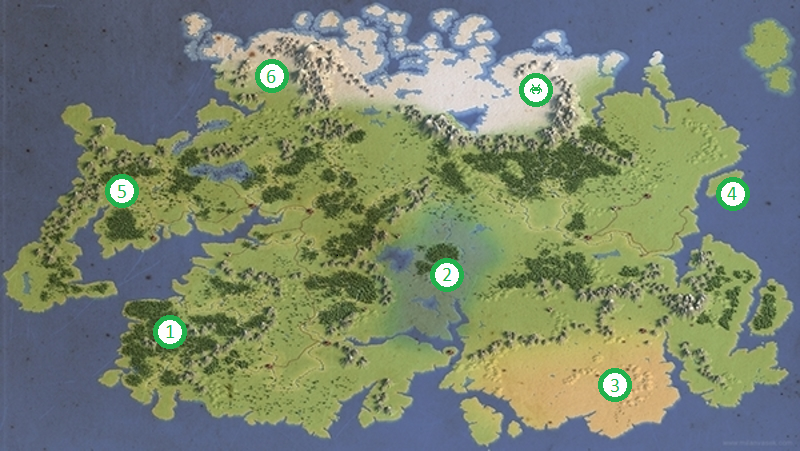
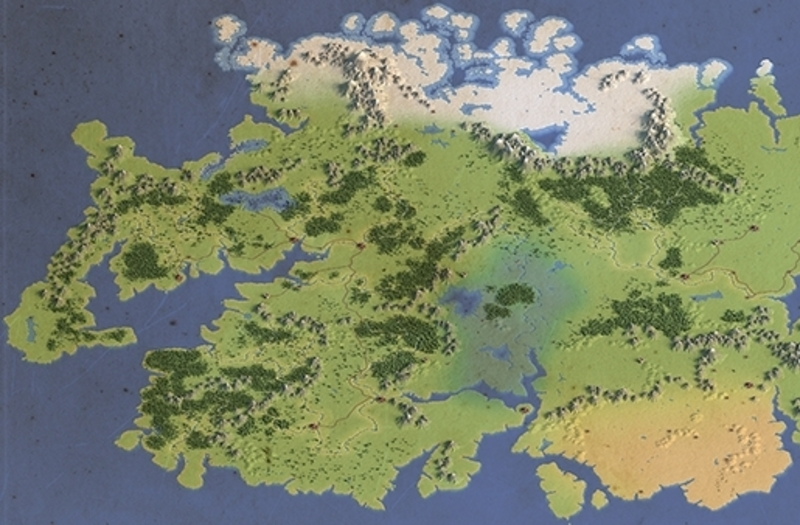
Gave a very pretty map interface to the Level Selection screen

diff --git a/src/player_view_level_select.cpp b/src/player_view_level_select.cpp
@@ -4,9 +4,17 @@
 
 LevelSelectView::LevelSelectView(GameLogic *state, sf::RenderWindow *App) : PlayerView(state, App)
 {
-  selectionIndex = 0;
+  selected_level = 0;
   graphics = std::make_shared<LevelSelectGraphics>(this);
   App->setView(App->getDefaultView());
+
+	nodes[0] = {298, 403, 1, 10};
+	nodes[1] = {47, 321, 2, 10};
+	nodes[2] = {718, 442, 3, 10};
+	nodes[3] = {526, 320, 4, 10};
+	nodes[4] = {358, 223, 5, 10};
+	nodes[5] = {317, 84, 6, 10};
+	nodes[6] = {622, 103, 7, 10};
 }
 
 void LevelSelectView::process_input(float delta)
@@ -16,33 +24,18 @@ void LevelSelectView::process_input(float delta)
 
 void LevelSelectView::handle_event(sf::Event event)
 {
-	if (event.type == sf::Event::EventType::MouseButtonPressed) {
-		int x = event.mouseButton.x;
-		int y = event.mouseButton.y;
-		printf("Click Event Processed\n");
-		if (x >= 10 && x <= 275 && y >= 10 && y <= 275) {
-			if (x >= 10 && x <= 50 && y >= 10 && y <= 50) {
-				printf("Level One Selected\n");
-				Engine::getInstance().set_mode(MODE_PLAY);
-			}
-			if (x >= 55 && x <= 95 && y >= 55 && y <= 95) {
-				printf("Level Two Selected\n");
-			}
-			if (x >= 100 && x <= 140 && y >= 100 && y <= 140) {
-				printf("Level Three Selected\n");
-			}
-			if (x >= 145 && x <= 185 && y >= 145 && y <=185) {
-				printf("Level Four Selected\n");
-			}
-			if (x >= 190 && x <= 230 && y >= 190 && y <= 230) {
-				printf("Level Five Selected\n");
-			}
-			if (x >= 235 && x <=275 && y >= 235 && y <= 275) {
-				printf("Level Six Selected\n");
-			}
-	   }
-	 fflush(stdout);
+	if (event.type == sf::Event::EventType::MouseButtonPressed)
+  {
+		selected_level = clicked_node(event.mouseButton.x, event.mouseButton.y);
 	}
+  else if (event.type == sf::Event::EventType::MouseButtonReleased)
+  {
+    if (selected_level == clicked_node(event.mouseButton.x, event.mouseButton.y))
+    {
+      printf("Level %d selected\n", selected_level);
+      Engine::getInstance().set_mode(MODE_PLAY);
+    }
+  }
 }
 
 void LevelSelectView::update(float delta)
@@ -61,4 +54,21 @@ void LevelSelectView::draw()
   app->clear(sf::Color::Black);
   app->draw(*graphics);
   app->display();
+}
+
+int LevelSelectView::clicked_node(int mouseX, int mouseY)
+{
+	int i;
+	int dx;
+	int dy;
+	int hypo;
+	for (i = 0; i < NUMBER_OF_LEVELS; ++i)
+	{
+		Node node = get_node(i);
+		hypo = node.size;
+		dx = mouseX - node.x;
+		dy = mouseY - node.y;
+		if (hypo * hypo > dx * dx + dy * dy) return i + 1;
+	}
+	return 0;
 }

diff --git a/include/player_view_level_select.h b/include/player_view_level_select.h
@@ -2,20 +2,29 @@
 #define CSCI437_VIEW_LEVELSELECT_H
 
 #include "view.h"
+#include "macros.h"
 
 class LevelSelectView : public PlayerView
 {
+
+private:
+    void process_input(float delta) override;
+    void handle_event(sf::Event event) override;
+    struct Node {
+        int x;
+        int y;
+        int level;
+        int size;
+    };
+    Node nodes[NUMBER_OF_LEVELS];
+    int clicked_node(int mouseX, int mouseY);
+    int selected_level;
 
 public:
     LevelSelectView(GameLogic *state, sf::RenderWindow *App);
     void update(float delta) override;
     void draw() override;
-
-private:
-    void process_input(float delta) override;
-    void handle_event(sf::Event event) override;
-    int getSelectedLevel();
-    int selectionIndex;
+    Node get_node(int node) {return nodes[node];}
 
 };
 

diff --git a/src/graphics_level_select.cpp b/src/graphics_level_select.cpp
@@ -12,14 +12,18 @@ void LevelSelectGraphics::draw(sf::RenderTarget &target, sf::RenderStates states
 	// This must always be the first line of every draw method
 	states.transform *= getTransform();
 
-	for (int i=0;i<6;i++) {
-		sf::RectangleShape shape;
+  sf::Sprite sprite;
+  sprite.setTexture(resources.GetTexture("map"));
+  target.draw(sprite, states);
+
+	for (int i = 0; i < NUMBER_OF_LEVELS; ++i) {
+		sf::CircleShape shape;
     shape.setFillColor(sf::Color::Red);
-    shape.setSize(sf::Vector2f(40,40));
-    shape.setPosition(sf::Vector2f((5*(i+2))+(40*i),(5*(i+2))+(40*i)));
+    shape.setRadius(view->get_node(i).size);
+    shape.setOrigin(view->get_node(i).size, view->get_node(i).size);
+    shape.setPosition(view->get_node(i).x, view->get_node(i).y);
 		target.draw(shape, states);
 	}
-
 }
 
 

diff --git a/src/engine.cpp b/src/engine.cpp
@@ -19,6 +19,7 @@ void Engine::init(sf::RenderWindow *app)
   //loads necessary resources to the resource manager
   resources.LoadFont("old_school", "../data/Old-School-Adventures.ttf");
   resources.LoadXML("text", "../data/game-text.xml");
+  resources.LoadTexture("map", "../data/map.png");
 
   App = app;
   curr_game_mode = MODE_MENU;

diff --git a/include/macros.h b/include/macros.h
@@ -6,6 +6,7 @@
 #define WINDOW_WIDTH                800
 #define GAME_CLOCK_SCALER           2.f
 #define ZOOM_SCALAR					        1.5f
+#define NUMBER_OF_LEVELS            7
 
 #define PLAYER_SPEED				        100
 #define ENEMY_SPEED				          80
